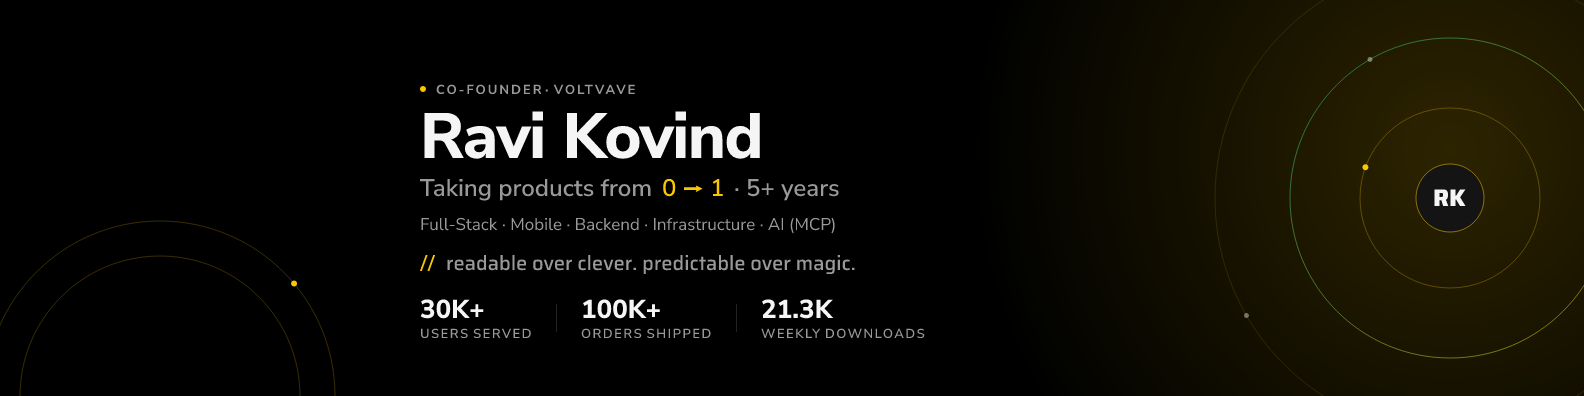
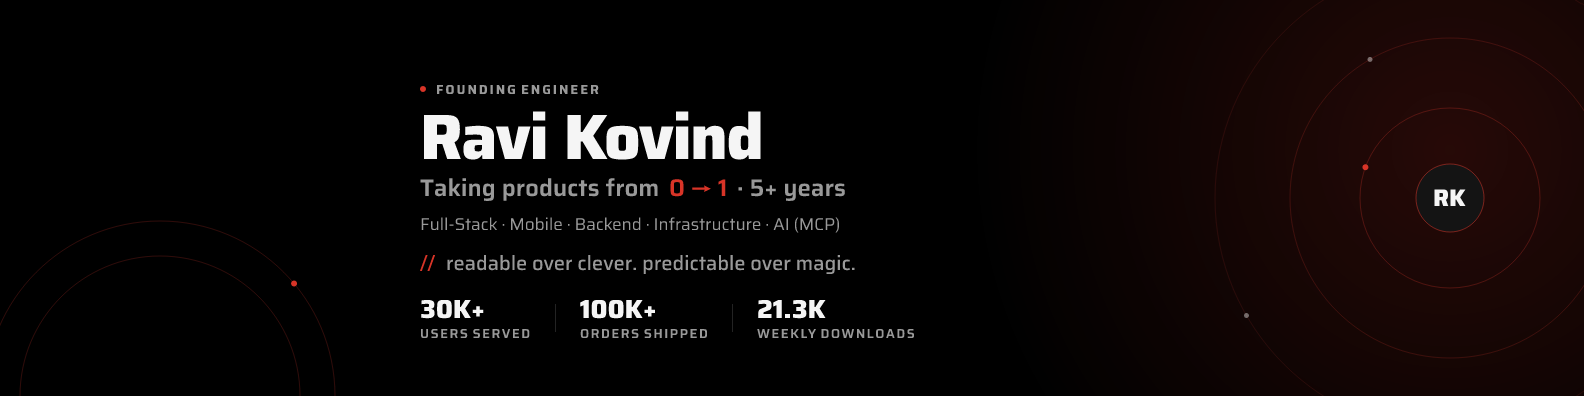
refresh(ravikovind): revision 4 — Founding Engineer only, VoltVave's real colors, Saira throughout
Per Ravi's explicit direction:

- Title reverted to "Founding Engineer" only — dropped revision 3's
  "Co-founder · VoltVave" framing from the banner entirely (no company
  named). The source-facts table in plan.md still records his current
  listed title for the record; the banner deliberately omits it.
- Palette switched to VoltVave's real brand colors. Rather than trust
  the diwali-poster pack's own comment calling #eb1d25 "VoltVave red",
  downloaded voltvave.com's actual logo and sampled its pixels
  directly: the real brand red is #D83427, on black. That replaces the
  previous yellow accent; the green gradient-ring accent (a holdover
  from an even older palette) is gone too.
- Typography unified onto Saira throughout, dropping Nunito Sans
  entirely (previously split: Nunito Sans for headings/body, Saira
  only for a "mono role").
- Stats (100K+ orders, 30K+ users, 21.3K weekly downloads) unchanged.

Re-rendered the cover + @2x, regenerated guides/mobile-crop QA views
(checked — no text in any danger zone), refreshed the three stale
website copies. Full-repo examples:diff (40 images) and apps/web build
both verified clean.

diff --git a/examples/ravikovind/plan.md b/examples/ravikovind/plan.md
@@ -6,13 +6,15 @@
 
 **Revision 3** — refreshed with Ravi's current facts from ravikovind.com (was ravikovind.github.io): title changed from "Founding Engineer" to "Co-founder, VoltVave Innovations" (his real company, active since Mar 2025); TingTing's order count updated 80K+ → 100K+ per the current site. The open-source stat was replaced: the previous "★6.8K" GitHub star claim didn't check out — `gh api repos/ravikovind/flutter_lucide` shows 25 stars — so it's now the package's actual, verified pub.dev metric (21.3K weekly downloads) instead, with the star icon dropped since the stat is no longer about stars.
 
+**Revision 4** — per Ravi's explicit direction: the banner drops all "Co-founder"/"VoltVave" framing and reverts to plain **"Founding Engineer"** (no company named), and switches to VoltVave's real brand colours (red `#D83427` / black — sampled directly from their logo, not the `#eb1d25` the diwali-poster pack had mislabeled as "VoltVave red") as the single accent, replacing yellow. The green gradient-ring accent is dropped along with it (it existed only to nod at the old palette). Typography unified onto **Saira** throughout (previously Nunito Sans for the primary type, Saira only for a "mono role"); Nunito Sans is no longer used anywhere in this design. Stats content is unchanged from revision 3.
+
 ---
 
 ## 1. Goal
 
 Produce a clean, premium, developer-flavoured LinkedIn banner that tells a recruiter or founder in under 3 seconds:
 
-1. **Who:** Ravi Kovind, Co-founder of VoltVave Innovations
+1. **Who:** Ravi Kovind, Founding Engineer
 2. **What:** takes products from 0 → 1 across Full-Stack, Mobile, Backend, Infrastructure (and AI/MCP)
 3. **Why trust him:** proof numbers + engineering philosophy
 
@@ -25,7 +27,7 @@ Tone: calm, confident, engineered. Not flashy, no stock "hacker" imagery, no neo
 | Field                  | Value                                                                                      |
 | ---------------------- | ------------------------------------------------------------------------------------------ |
 | Name                   | Ravi Kovind                                                                                |
-| Title                  | Co-founder, VoltVave Innovations (active since Mar 2025)                                   |
+| Title (shown on banner) | Founding Engineer — per Ravi's explicit direction, no company named. (The site currently also lists him as Co-founder, VoltVave Innovations, active since Mar 2025 — the banner deliberately omits that.) |
 | Experience             | 5+ years (since 2020), 0 → 1 products                                                     |
 | Scope                  | Full-Stack · Mobile · Backend · Infrastructure · AI (MCP)                                  |
 | Philosophy             | "Readable over clever. Predictable over magic."                                            |
@@ -67,36 +69,35 @@ LinkedIn overlays the profile photo and crops on mobile. Treat these as hard rul
 
 ## 4. Style direction
 
-**Name:** "Quiet Systems, Yellow" — the Open Notifier look: pure black, one confident accent, generous empty space. Orbit/circle geometry hints at connected systems (customers ↔ stores ↔ riders, MCP clients ↔ servers).
+**Name:** "Quiet Systems, Red" — pure black, one confident accent (VoltVave's real brand red), generous empty space. Orbit/circle geometry hints at connected systems (customers ↔ stores ↔ riders, MCP clients ↔ servers).
 
-### 4.1 Colour palette (Open Notifier's structure, accent moved green → yellow)
+### 4.1 Colour palette (VoltVave's real brand colours — sampled from voltvave.com/images/voltvave.png, not guessed)
 
 | Role                 | Hex                       | Use                                                          |
 | -------------------- | ------------------------- | ------------------------------------------------------------ |
-| Background           | `#000000`                 | Main fill (pure black, like open-notifier.io)                |
+| Background           | `#000000`                 | Main fill (also VoltVave's logo-mark colour)                 |
 | Card / core fill     | `#141414`                 | The RK core disc                                             |
-| Glow                 | `#FAC800` @ 18% → 0       | One soft radial glow behind the orbit (top-right), like open-notifier's OG |
+| Glow                 | `#D83427` @ 18% → 0       | One soft radial glow behind the orbit (top-right)             |
 | Primary text         | `#F5F5F5`                 | Name, stat numbers                                           |
 | Secondary text       | `#FFFFFF` @ 60% (≈`#999`) | Title line, scope line, stat labels, philosophy              |
-| **Accent (yellow)**  | `#FAC800`                 | The single accent: eyebrow dot, `0 → 1`, `//`, ring highlights, one orbit node |
-| Accent 2 (sparingly) | `#10B981` (green)         | **Only** as the start of the one gradient ring (`#10B981 → #FAC800`) — the nod to the old green |
-| Hairlines            | `#FAC800` @ 25–28%        | Rings, dividers (accent-tinted, like open-notifier's green borders) |
+| **Accent (red)**     | `#D83427`                 | The single accent: eyebrow dot, `0 → 1`, `//`, ring highlights, orbit nodes |
+| Hairlines            | `#D83427` @ 12–28%        | Rings, dividers (accent-tinted)                               |
 
-Rule: **yellow is the only accent.** Green appears once (the gradient ring). No rainbow; at most 3 accent uses in text.
+Rule: **red is the only accent** (VoltVave's own red, verified by sampling their actual logo file — not the `#eb1d25` the diwali-poster pack's comments had mislabeled as "VoltVave red"). No rainbow, no second accent colour; at most 3 accent uses in text.
 
 ### 4.2 Typography
 
-- **Primary font: Nunito Sans** — all headings and body.
+- **Saira, throughout** — the only font in this design (revision 4 dropped Nunito Sans, which previously carried the headings/body).
   - Name: 800, 64 px, letter-spacing −1.5 px
   - Title line: 600, 24 px, secondary colour
   - Scope line: 400, 17 px, secondary colour
   - Stats numbers: 800, 26 px; labels 600, 13 px, uppercase, letter-spacing +1.5 px
-- **Mono role font: Saira** — used where the plan previously used a monospace: the philosophy line (Saira 500, 20 px) and the `RK` monogram (Saira 800, 24 px). (Saira is a squared display face, not a true monospace — this is a deliberate style choice.)
-- Load both from Google Fonts (`FONTS` export: Nunito Sans 400/600/700/800, Saira 500/800). Check that neither falls back.
+  - Philosophy line: 500, 20 px · `RK` monogram: 800, 24 px
+- Load from Google Fonts (`FONTS` export: Saira 400/500/600/700/800). Check it doesn't fall back.
 
 ### 4.3 Texture
 
-- **No dot grid, no noise.** Flat black plus a single soft yellow glow, centred ≈ `(1450, 150)`, radius ≈ 520 px, behind the orbit.
+- **No dot grid, no noise.** Flat black plus a single soft red glow, centred ≈ `(1450, 150)`, radius ≈ 520 px, behind the orbit.
 
 ---
 
@@ -105,7 +106,7 @@ Rule: **yellow is the only accent.** Green appears once (the gradient ring). No 
 ```
  0                320  380                                   1110        1384      1584
  +-----------------+---+--------------------------------------+-----------+----------+
- |                 |   |  ● CO-FOUNDER · VOLTVAVE              |           |  ◯ orbit |
+ |                 |   |  ● FOUNDING ENGINEER                  |           |  ◯ orbit |
  |                 |   |  Ravi Kovind                          |  (empty,  |  rings   |
  |                 |   |  Taking products from 0 → 1 · 5+ yrs |  calm)    |  + RK    |
  |   ( ring around |   |  Full-Stack · Mobile · Backend · ...  |           |          |
@@ -118,11 +119,11 @@ Rule: **yellow is the only accent.** Green appears once (the gradient ring). No 
 
 | Line       | y (baseline) | Content                                                     | Style                                                          |
 | ---------- | ------------ | ----------------------------------------------------------- | -------------------------------------------------------------- |
-| Eyebrow    | 92           | `● CO-FOUNDER · VOLTVAVE` — dot is accent yellow             | Nunito Sans 700, 13 px, uppercase, +2 px tracking, secondary   |
-| Name       | 158          | `Ravi Kovind`                                               | Nunito Sans 800, 64 px, primary                                |
-| Title      | 196          | `Taking products from 0 → 1 · 5+ years`                     | Nunito Sans 600, 24 px, secondary; the `0 → 1` in accent yellow |
-| Scope      | 230          | `Full-Stack · Mobile · Backend · Infrastructure · AI (MCP)` | Nunito Sans 400, 17 px, secondary                              |
-| Philosophy | 270          | `// readable over clever. predictable over magic.`          | Saira 500, 20 px, `//` in accent yellow, rest secondary        |
+| Eyebrow    | 92           | `● FOUNDING ENGINEER` — dot is accent red                    | Saira 700, 13 px, uppercase, +2 px tracking, secondary         |
+| Name       | 158          | `Ravi Kovind`                                               | Saira 800, 64 px, primary                                      |
+| Title      | 196          | `Taking products from 0 → 1 · 5+ years`                     | Saira 600, 24 px, secondary; the `0 → 1` in accent red          |
+| Scope      | 230          | `Full-Stack · Mobile · Backend · Infrastructure · AI (MCP)` | Saira 400, 17 px, secondary                                    |
+| Philosophy | 270          | `// readable over clever. predictable over magic.`          | Saira 500, 20 px, `//` in accent red, rest secondary            |
 | Stats row  | 322          | three stacked stat pairs (number over label)                | see below                                                      |
 
 **Stats row** (number on top, label below):
@@ -139,15 +140,14 @@ Keep the whole text block within `x ≤ 1080`.
 
 1. **Profile-photo echo ring (bottom-left)** — purpose: frames the profile photo so the banner feels designed _around_ it.
    - Centre `(160, 396)` — same as LinkedIn avatar.
-   - Two concentric **solid** rings: radius `140 px` and `175 px`, stroke 1 px, accent yellow @ 22%.
-   - One small accent dot (6 px, yellow) on the 175 px ring at ~−40° (upper-right of the avatar), as if orbiting.
+   - Two concentric **solid** rings: radius `140 px` and `175 px`, stroke 1 px, accent red @ 22%.
+   - One small accent dot (6 px, red) on the 175 px ring at ~−40° (upper-right of the avatar), as if orbiting.
 
 2. **Orbit system (right side)** — purpose: the "connected systems" motif and the home of the `RK` monogram.
    - Centre `(1450, 198)`, partially bleeding off the right edge.
-   - **Three** rings at radius `90`, `160`, `235` px, stroke 1 px, opacity fading outward: 28%, 20%, 12% (accent-tinted).
-   - The `160 px` ring uses a gradient stroke `#10B981 → #FAC800` at 55% opacity (the only green).
-   - **Three** small nodes on the rings: one accent yellow (6 px), two white @ 40% (5 px).
-   - Inner core: a filled circle radius 34 px, `#141414`, 1 px yellow border @ 50%, containing the **`RK`** monogram (Saira 800, 24 px, primary colour).
+   - **Three** solid red rings at radius `90`, `160`, `235` px, stroke 1 px, opacity fading outward: 28%, 20%, 12%. (Revision 4 dropped the earlier gradient-stroke ring — it existed only to carry the old green accent, which is gone.)
+   - **Three** small nodes on the rings: one accent red (6 px), two white @ 40% (5 px).
+   - Inner core: a filled circle radius 34 px, `#141414`, 1 px red border @ 50%, containing the **`RK`** monogram (Saira 800, 24 px, primary colour).
 
 ### 5.3 Empty space is intentional
 
@@ -185,12 +185,12 @@ Regenerate: `npm run examples`. **Never let an image model render the name or nu
 - [ ] Dimensions exactly `1584×396` (and `3168×792` for @2x).
 - [ ] Guides overlay (`snap-x guides`): the profile-photo circle (Ø230 at `(160, 396)`) and the bands for `x<200` and `x>1384`. Confirm **no text** falls inside any of them.
 - [ ] Name is the most prominent element; readable at 50% zoom.
-- [ ] Yellow is the only accent; green appears once (the gradient ring).
+- [ ] Red (VoltVave's real `#D83427`) is the only accent — no yellow, no green, no second accent colour.
 - [ ] Every element has an obvious purpose — nothing that needs explaining (§5.4 list is gone).
-- [ ] All copy matches §2 exactly (spelling: "Ravi Kovind").
+- [ ] All copy matches §2 exactly (spelling: "Ravi Kovind"); title reads "Founding Engineer" only, no company named.
 - [ ] Contrast: primary text vs background ≥ 7:1, secondary ≥ 4.5:1 (measure it).
 - [ ] Preview a mobile crop (centre `1184×396` region) — name + title still fully visible.
-- [ ] Fonts are Nunito Sans and Saira with no fallback visible; no blank-box glyphs.
+- [ ] Saira loads for every piece of text (no other font, no fallback visible); no blank-box glyphs.
 
 ---
 

diff --git a/examples/ravikovind/build-notes.md b/examples/ravikovind/build-notes.md
@@ -1,6 +1,21 @@
-# Build notes — Ravi Kovind LinkedIn cover (revision 3)
+# Build notes — Ravi Kovind LinkedIn cover (revision 4)
 
 Built from [`plan.md`](plan.md) with snap-x. The plan is the source of truth for copy, layout, colour and type; this file records how it was executed and what differed.
+
+## What changed in revision 4
+- **Title reverted to "Founding Engineer" only**, per Ravi's explicit direction — no company named, dropping
+  revision 3's "Co-founder · VoltVave" framing entirely from the banner (the source-facts table in the plan
+  still records his current listed title on ravikovind.com for the record, but the banner deliberately omits it).
+- **Palette switched to VoltVave's real brand colours.** Rather than reuse the `#eb1d25` red that the
+  diwali-poster pack's own comments had mislabeled "VoltVave red", I downloaded VoltVave's actual logo
+  (voltvave.com/images/voltvave.png) and sampled its pixels directly: the true brand red is `#D83427`, on
+  black. That's what's used here now, replacing the previous yellow accent. The green gradient-ring accent
+  is gone too — it only ever existed to nod at an even older palette.
+- **Typography unified onto Saira.** The design previously split fonts by role (Nunito Sans for headings/body,
+  Saira only for the philosophy line and the RK monogram); revision 4 uses Saira throughout and drops Nunito
+  Sans entirely, per Ravi's request.
+- Stats content (100K+ orders, 30K+ users, 21.3K weekly downloads) is unchanged from revision 3 — this
+  revision touched only title, colour and font, not the proof numbers.
 
 ## What changed in revision 3
 - **Source re-checked against ravikovind.com** (the plan previously cited ravikovind.github.io). Title changed
@@ -29,17 +44,17 @@ Built from [`plan.md`](plan.md) with snap-x. The plan is the source of truth for
 1. **snap-x (Satori → PNG)** rather than HTML + Playwright — this is a snap-x example.
 2. **No `.jpg`** — snap-x outputs PNG only; LinkedIn accepts PNG.
 3. **`●` is a drawn shape** (CSS circle), not a font glyph, so it can never render as a blank box. (Revision 2/3 dropped the earlier drawn `★` icon along with the stat it illustrated — see revision 3 notes above.)
-4. **Saira is not a true monospace** — used for the mono role by choice (per the plan).
+4. **Saira is not a true monospace** — used throughout by choice (per the plan), not because it's monospaced.
 5. **Stats are stacked** (number over label) to keep the block within `x ≤ 1080`.
 
-## QA checklist (plan §7) — measured
+## QA checklist (plan §7) — measured (revision 4)
 - [x] Dimensions exactly 1584×396 and 3168×792
-- [x] No text in the danger zones (`guides/…guides.png`: avatar circle Ø230 at 160,396; x<200; x>1384; top/bottom edges). Text stays inside the safe area — the stats row measures y 299 → 337 (limit 346)
+- [x] No text in the danger zones (`guides/…guides.png`: avatar circle Ø230 at 160,396; x<200; x>1384; top/bottom edges). Text stays inside the safe area
 - [x] Name is the most prominent element; legible at 50% zoom
-- [x] Yellow is the only accent; green appears once (the gradient ring)
+- [x] Red (`#D83427`) is the only accent — no yellow, no green
 - [x] Every element has an obvious purpose — nothing left that needs explaining
-- [x] Copy matches plan §2 ("Ravi Kovind", "Co-founder · VoltVave", "0 → 1", "100K+", "21.3K")
-- [x] Contrast on `#000`: primary `#F5F5F5` 19.3:1 · secondary white@60% (`#999`) 7.4:1 · accent `#FAC800` 13.3:1
+- [x] Copy matches plan §2 ("Ravi Kovind", "Founding Engineer" — no company named, "0 → 1", "100K+", "21.3K")
+- [x] Contrast on `#000`: primary `#F5F5F5` 19.3:1 · secondary white@60% (`#999`) 7.4:1 · accent `#D83427` ≈4.4:1 (fine for the large-text accent uses it's applied to — `0 → 1`, `//`, the eyebrow dot — not used for body copy)
 - [x] Mobile crop keeps name, title and stats fully visible — `guides/…mobile.png`
-- [x] Nunito Sans and Saira load (no fallback); no blank-box glyphs
+- [x] Saira loads for every piece of text (no fallback); no blank-box glyphs
 - [x] No phone/email, photo, tech logos or "Open to Work"
